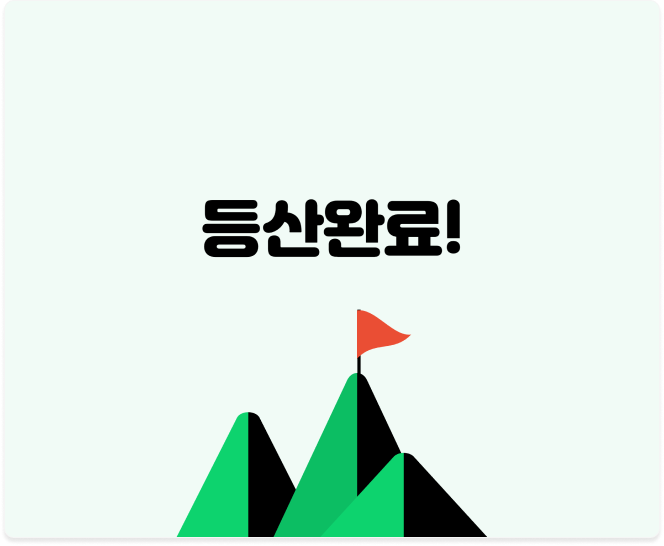
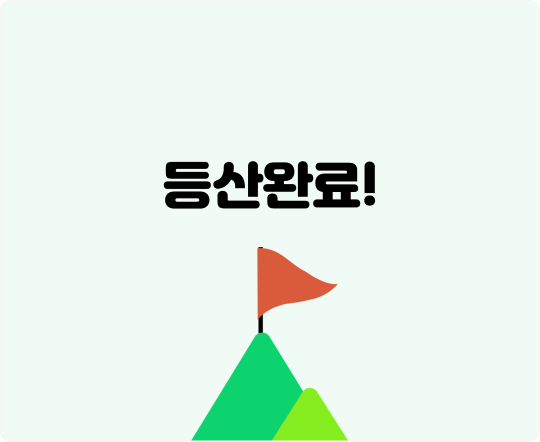
no data default image apply

Changed region(s): [[0.2667, 0.5588, 0.7407, 1.0], [0.2963, 0.3529, 0.7111, 0.4706]]

diff --git a/src/screens/record/RecordDetailScreen.js b/src/screens/record/RecordDetailScreen.js
@@ -37,23 +37,29 @@ const RecordDetailScreen = ({ route }) => {
             </Text>
             <View style={styles.summaryContainer}>
                 <View style={styles.summaryItem}>
-                    <FontAwesome5 name="mountain" size={24} color="black" />
-                    <Text>{record.mountain}</Text>
+                    <FontAwesome5 name="mountain" size={20} color="#FFF" />
+                    <Text style={{ color: '#FFF', marginTop: 5 }}>
+                        {record.mountain}
+                    </Text>
                 </View>
+                <View style={[styles.verticalLine, { height: '30%' }]}></View>
                 <View style={styles.summaryItem}>
-                    <FontAwesome5 name="hiking" size={24} color="black" />
-                    <Text>
+                    <FontAwesome5 name="hiking" size={24} color="#FFF" />
+                    <Text style={{ color: '#FFF', marginTop: 5 }}>
                         {record.dateTime.totalHour}시간{' '}
                         {record.dateTime.totalMinute}분
                     </Text>
                 </View>
+                <View style={[styles.verticalLine, { height: '30%' }]}></View>
                 <View style={styles.summaryItem}>
                     <MaterialCommunityIcons
                         name="map-marker-distance"
                         size={24}
-                        color="black"
+                        color="#FFF"
                     />
-                    <Text>{record.distance.toFixed(2)}m</Text>
+                    <Text style={{ color: '#FFF', marginTop: 5 }}>
+                        {record.distance.toFixed(2)}m
+                    </Text>
                 </View>
             </View>
             <View style={styles.snapshotContainer}>
@@ -71,49 +77,55 @@ const RecordDetailScreen = ({ route }) => {
                 />
             </View>
             <View style={styles.recordContainer}>
-                <View style={[styles.recordItem, styles.recordItemLeft]}>
-                    <Text style={styles.smallText}>총 등산 시간</Text>
-                    <Text style={styles.boldText}>
-                        {record.dateTime.totalHour}시간{' '}
-                        {record.dateTime.totalMinute}분
-                    </Text>
+                <View style={styles.recordItemContainer}>
+                    <View style={[styles.recordItem, styles.recordItemLeft]}>
+                        <Text style={styles.smallText}>총 등산 시간</Text>
+                        <Text style={styles.boldText}>
+                            {record.dateTime.totalHour}시간{' '}
+                            {record.dateTime.totalMinute}분
+                        </Text>
+                    </View>
+                    <View style={styles.verticalLine}></View>
+                    <View style={[styles.recordItem, styles.recordItemRight]}>
+                        <Text style={styles.smallText}>총 등산 거리</Text>
+                        <Text style={styles.boldText}>
+                            {record.distance.toFixed(2)} m
+                        </Text>
+                    </View>
                 </View>
-                <View style={[styles.recordItem, styles.recordItemRight]}>
-                    <Text style={styles.smallText}>총 등산 거리</Text>
-                    <Text style={styles.boldText}>
-                        {record.distance.toFixed(2)}m
-                    </Text>
-                </View>
-            </View>
-            <View style={styles.recordContainer}>
-                <View style={[styles.recordItem, styles.recordItemLeft]}>
-                    <Text style={styles.smallText}>등산 시작</Text>
-                    <Text style={styles.boldText}>
-                        {record.dateTime.startAmpm} {record.dateTime.startHour}
-                        시 {record.dateTime.startMinute}분
-                    </Text>
-                </View>
-                <View style={[styles.recordItem, styles.recordItemRight]}>
-                    <Text style={styles.smallText}>등산 완료</Text>
+                <View style={styles.recordItemContainer}>
+                    <View style={[styles.recordItem, styles.recordItemLeft]}>
+                        <Text style={styles.smallText}>등산 시작</Text>
+                        <Text style={styles.boldText}>
+                            {record.dateTime.startAmpm}{' '}
+                            {record.dateTime.startHour}시{' '}
+                            {record.dateTime.startMinute}분
+                        </Text>
+                    </View>
+                    <View style={styles.verticalLine}></View>
+                    <View style={[styles.recordItem, styles.recordItemRight]}>
+                        <Text style={styles.smallText}>등산 완료</Text>
 
-                    <Text style={styles.boldText}>
-                        {record.dateTime.endAmpm} {record.dateTime.endHour}시{' '}
-                        {record.dateTime.endMinute}분
-                    </Text>
+                        <Text style={styles.boldText}>
+                            {record.dateTime.endAmpm} {record.dateTime.endHour}
+                            시 {record.dateTime.endMinute}분
+                        </Text>
+                    </View>
                 </View>
-            </View>
-            <View style={styles.recordContainer}>
-                <View style={[styles.recordItem, styles.recordItemLeft]}>
-                    <Text style={styles.smallText}>최저 고도</Text>
-                    <Text style={styles.boldText}>
-                        {record.minAltitude.toFixed(2)} m
-                    </Text>
-                </View>
-                <View style={[styles.recordItem, styles.recordItemRight]}>
-                    <Text style={styles.smallText}>최고 고도</Text>
-                    <Text style={styles.boldText}>
-                        {record.maxAltitude.toFixed(2)} m
-                    </Text>
+                <View style={styles.recordItemContainer}>
+                    <View style={[styles.recordItem, styles.recordItemLeft]}>
+                        <Text style={styles.smallText}>최저 고도</Text>
+                        <Text style={styles.boldText}>
+                            {record.minAltitude.toFixed(2)} m
+                        </Text>
+                    </View>
+                    <View style={styles.verticalLine}></View>
+                    <View style={[styles.recordItem, styles.recordItemRight]}>
+                        <Text style={styles.smallText}>최고 고도</Text>
+                        <Text style={styles.boldText}>
+                            {record.maxAltitude.toFixed(2)} m
+                        </Text>
+                    </View>
                 </View>
             </View>
         </View>
@@ -143,12 +155,11 @@ const styles = StyleSheet.create({
     summaryContainer: {
         flexDirection: 'row',
         justifyContent: 'space-around',
-        // borderWidth: 1,
         borderRadius: 12,
         height: '12%',
         marginVertical: '5%',
         alignItems: 'center',
-        backgroundColor: '#FFF',
+        backgroundColor: '#0DD36E',
         elevation: 1,
     },
     summaryItem: {
@@ -156,9 +167,12 @@ const styles = StyleSheet.create({
     },
     snapshotContainer: {
         marginBottom: '5%',
+        backgroundColor: '#FFF',
+        elevation: 1,
         // shadowColor: '#202020',
         // shadowOffset: { width: 0, height: 0 },
         // shadowRadius: 5,
+        borderRadius: 10,
     },
     snapshot: {
         width: '100%',
@@ -168,24 +182,31 @@ const styles = StyleSheet.create({
         // elevation: 3,
     },
     recordContainer: {
+        backgroundColor: '#F8F8F8',
+        borderRadius: 10,
+        elevation: 1,
+    },
+    recordItemContainer: {
         flexDirection: 'row',
         justifyContent: 'space-around',
         marginBottom: '3%',
         alignItems: 'stretch',
     },
     recordItem: {
-        // borderWidth: 1,
-        backgroundColor: '#FFF',
-        borderRadius: 10,
         flex: 1,
         alignSelf: 'stretch',
         justifyContent: 'center',
         height: 70,
         alignItems: 'center',
-        elevation: 1,
     },
     recordItemLeft: {
         marginRight: '1%',
+    },
+    verticalLine: {
+        height: '60%',
+        width: 2,
+        backgroundColor: '#EEEEEE',
+        alignSelf: 'center',
     },
     recordItemRight: {
         marginLeft: '1%',

diff --git a/src/screens/record/RecordListScreen.js b/src/screens/record/RecordListScreen.js
@@ -110,8 +110,18 @@ function RecordListScreen() {
 
     const renderEmptyComponent = () => {
         return (
-            <View>
-                <Text>아무것도 없어용.</Text>
+            <View
+                style={{
+                    marginVertical: '30%',
+                    alignSelf: 'center',
+                    justifyContent: 'center',
+                }}
+            >
+                <Image
+                    source={require('../../assets/images/no-data.png')}
+                    resizeMethod="resize"
+                    resizeMode="contain"
+                ></Image>
             </View>
         );
     };
@@ -174,6 +184,7 @@ const styles = StyleSheet.create({
     },
     scrollContainer: {
         // height: '100%',
+        // justifyContent: 'center',
         backgroundColor: '#FFF',
     },
     imageContainer: {
@@ -191,14 +202,14 @@ const styles = StyleSheet.create({
         paddingVertical: 10,
         paddingHorizontal: '7%',
         borderBottomWidth: 1,
-        borderBottomColor: '#BDBDBD',
+        borderBottomColor: '#EEEEEE',
         backgroundColor: '#FFF',
         // elevation: 2,
     },
     itemContainer: {
         height: 55,
         borderBottomWidth: 1,
-        borderBottomColor: '#BDBDBD',
+        borderBottomColor: '#EEEEEE',
     },
     item: {
         paddingHorizontal: '7%',

diff --git a/src/components/stamp/MountainComponent.js b/src/components/stamp/MountainComponent.js
@@ -1,6 +1,8 @@
+import { useContext } from 'react';
 import { Image, Pressable, StyleSheet, Text, View } from 'react-native';
 import { useDispatch } from 'react-redux';
 import { updateStamp } from '../../slices/stampSlice';
+import { ModalContext } from '../../utils/ModalContext';
 
 const MountainComponent = ({
     mountainId,
@@ -11,8 +13,26 @@ const MountainComponent = ({
     onPressed,
 }) => {
     const dispatch = useDispatch();
-    const onMountainPressed = () => {
+
+    const { showModal } = useContext(ModalContext);
+
+    const onMountainPressed = async () => {
         console.log('pressed');
+
+        const confirmMessage = flag
+            ? '에서 깃발을 회수하시겠습니까?'
+            : '에 깃발을 꽂으시겠습니까?';
+        const confirmButtonText = flag ? '네! 회수하기' : '네! 깃발꽂기';
+        const response = await showModal({
+            async: true,
+            type: 'confirm',
+            message: mountainName + confirmMessage,
+            buttonTexts: ['아니오', confirmButtonText],
+        });
+
+        // 아니오 버튼 클릭
+        if (response) return;
+
         dispatch(
             updateStamp({
                 mountainId: mountainId,

diff --git a/src/screens/stamp/StampMainScreen.js b/src/screens/stamp/StampMainScreen.js
@@ -112,10 +112,10 @@ function StampMainScreen() {
                 duration={6000}
                 confettiCount={30}
             />
-            <Text style={styles.text}>도전! 스탬프찍기!</Text>
+            <Text style={styles.text}>정상에 깃발꽂기!</Text>
             <Text style={styles.smallText}>
-                100대 명산 얼마나 가봤나요?{'\n'}지금까지 가본 산에 스탬프를
-                찍어보세요.
+                100대 명산 얼마나 가봤나요?{'\n'}
+                지금까지 가본 산에 깃발을 꽂아보세요.
             </Text>
             <View style={styles.countContainer}>
                 <View style={styles.stampCount}>

diff --git a/src/navigations/RecordStack.js b/src/navigations/RecordStack.js
@@ -13,7 +13,7 @@ const RecordStack = () => {
                 headerTitleAlign: 'center',
                 headerShown: true,
                 headerStyle: { elevation: 0 },
-                // cardStyle: { backgroundColor: '#FFFFFF' },
+                cardStyle: { backgroundColor: '#FFFFFF' },
             }}
         >
             <Stack.Screen
@@ -30,7 +30,6 @@ const RecordStack = () => {
                 component={RecordDetailScreen}
                 options={{
                     headerTitle: '오늘의 기록',
-                    // backgroundColor: '#BDBDBD',
                 }}
             />
         </Stack.Navigator>

diff --git a/src/navigations/MainTab.js b/src/navigations/MainTab.js
@@ -26,9 +26,9 @@ const MainTab = () => {
                     } else if (route.name === '나의 산 기록') {
                         iconName = 'calendar-check';
                     } else if (route.name === '도전 100대 명산') {
-                        iconName = 'hiking';
+                        iconName = 'flag-variant';
                     } else if (route.name === '마이') {
-                        iconName = 'account';
+                        iconName = 'account-circle';
                     }
                     return (
                         <MaterialCommunityIcons
